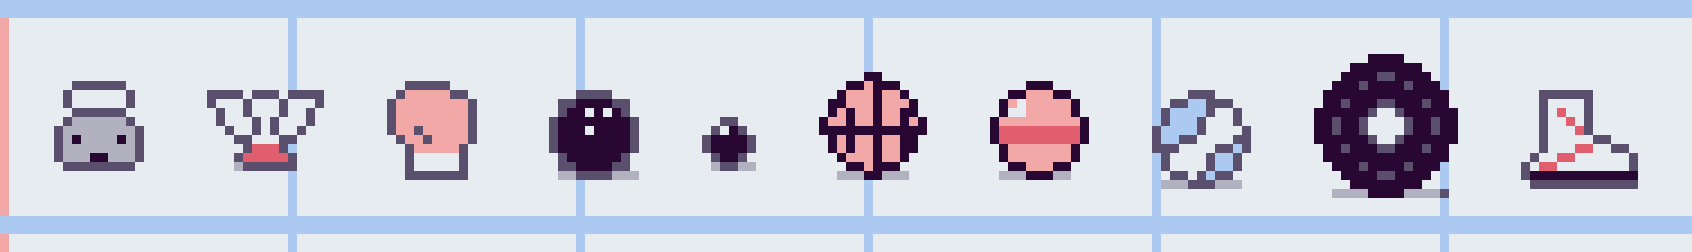
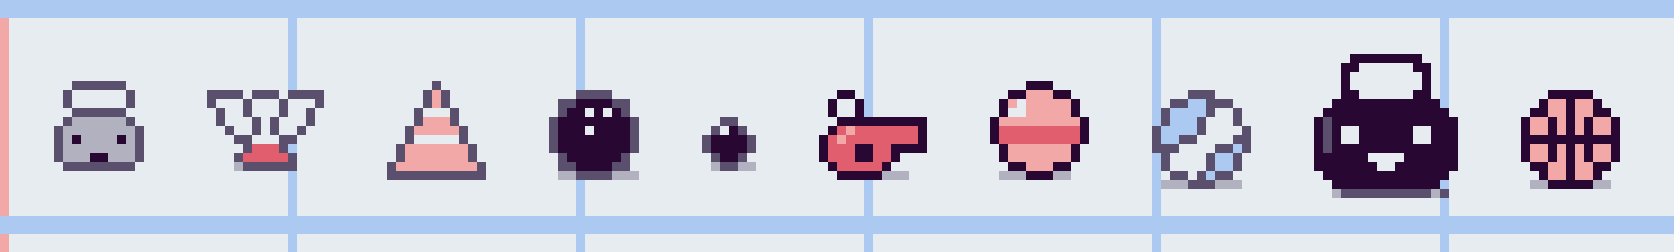
P.E.: a cone, a red whistle, the two eyes as balls and the grin a big kettlebell
The wad is a traffic cone and the skull the coach's whistle in red; the eye
keeps the volleyball and the red eye becomes the basketball; the grin is the
blob's kettlebell again, bigger and cast in ink. The boxing glove, the weight
plate and the trainer are gone.

Claude-Session: https://claude.ai/code/session_016SZz7dGSMrXe3qFzfhFSJ8

diff --git a/DESIGNDOC.md b/DESIGNDOC.md
@@ -849,8 +849,9 @@ the two eyes the two clefs and the grin an upright piano grinning with its
 keyboard. On the finance page the crowd is the spreadsheet's own toolbar: paste,
 cut, copy, the fill bucket and its drops, an error cell, a pie chart, find, the
 save disk and the cursor; on the P.E. page it is the kit cupboard: a
-kettlebell, a shuttlecock, a boxing glove, a bowling ball and its little balls,
-a basketball, an exercise ball, a volleyball, a weight plate and a trainer. It is a **skin and nothing else**, which is what keeps it on the right side of the paragraph above: every number the crowd is made of
+kettlebell, a shuttlecock, a cone, a bowling ball and its little balls, the
+coach's whistle in red, an exercise ball, a volleyball and a basketball for the
+two eyes, and a kettlebell again, bigger and in ink, for the grin. It is a **skin and nothing else**, which is what keeps it on the right side of the paragraph above: every number the crowd is made of
 stays on the row in `Enemy.types`, so a blob on the music page is the same 4hp
 walking at the same 20px/s, and a build learned on one page reads on every other.
 Only the drawing changes. Four things hold it together:
